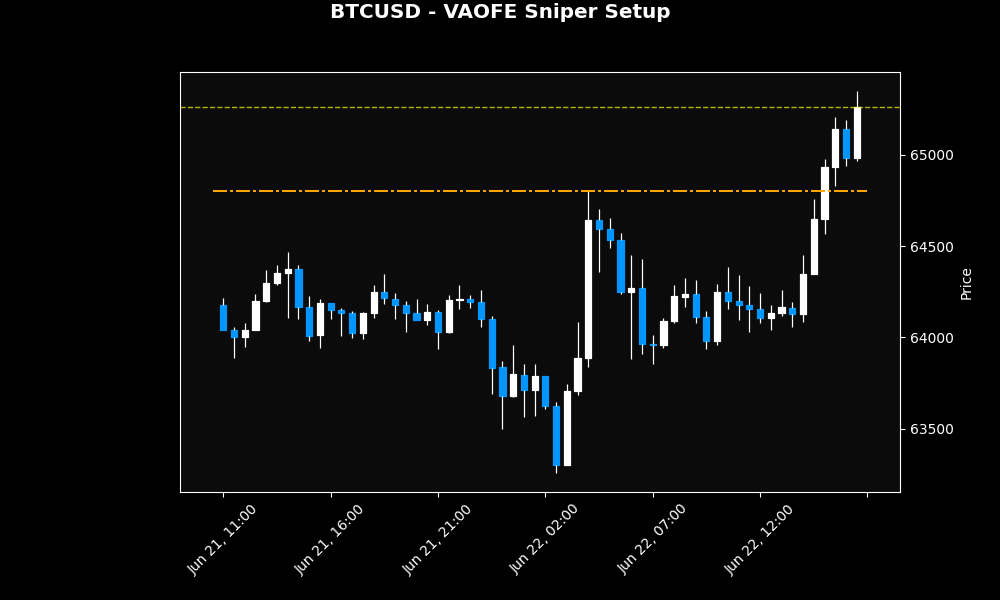
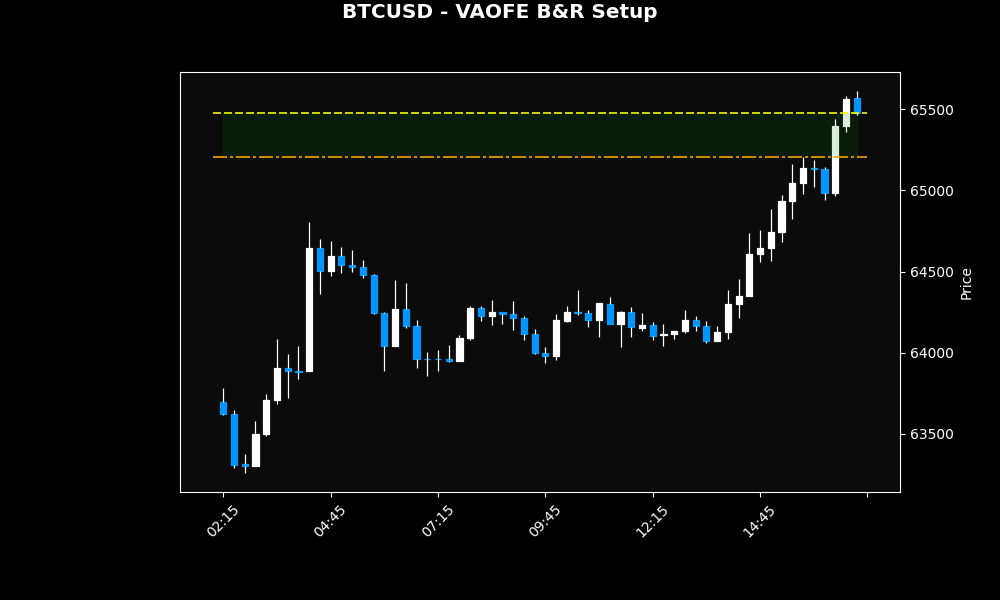
Laitettu B&R/kimmokeihin muutoksia, Graafimoottorin päivitys

diff --git a/compute/chart_maker.py b/compute/chart_maker.py
@@ -1,15 +1,15 @@
 import matplotlib.pyplot as plt
 import mplfinance as mpf
 import pandas as pd
-import numpy as np
 import os
 
-def generate_setup_chart(symbol, rates, target_level, pivot_price, direction, output_path="setup_snapshot.png"):
+def generate_setup_chart(symbol, rates, target_level, pivot_price, direction, output_path="setup_snapshot.png", tp1=None, tp2=None):
     """
     Piirtää graafin ja tallentaa sen kuvana.
     rates: list of dicts (MT5 rates)
-    target_level: BOS-taso (oranssi)
-    pivot_price: Pivot-kimmokkeen hinta (keltainen/punainen merkintä)
+    target_level: BOS-taso (oranssi, SL)
+    pivot_price: Entry-hinta (keltainen)
+    tp1, tp2: 1:1 ja 1:2 Targetit
     """
     # 1. Muutetaan data DataFrameksi
     df = pd.DataFrame(rates)
@@ -19,17 +19,31 @@ def generate_setup_chart(symbol, rates, target_level, pivot_price, direction, ou
     # 2. Määritetään visuaalinen tyyli
     style = mpf.make_mpf_style(base_mpf_style='nightclouds', gridstyle='', y_on_right=True)
     
-    # 3. Luodaan tasot piirrettäväksi
-    hlines = dict(hlines=[target_level], colors=['orange'], linestyle='-.', linewidths=1.5)
+    # 3. Luodaan perusviivat (SL ja Entry)
+    hlines_vals = [target_level, pivot_price]
+    hlines_colors = ['orange', 'yellow']
+    hlines_styles = ['-.', '--']
     
-    # 4. Piirretään graafi
+    # Jos Targetit (TP1, TP2) on annettu (Vaihe 2), piirretään ne vihreinä
+    if tp1 is not None and tp2 is not None:
+        hlines_vals.extend([tp1, tp2])
+        hlines_colors.extend(['#22c55e', '#16a34a']) # Vaaleanvihreä (1:1) ja Tummanvihreä (1:2)
+        hlines_styles.extend(['--', '-.'])
+        
+    hlines = dict(hlines=hlines_vals, colors=hlines_colors, linestyle=hlines_styles, linewidths=1.5, alpha=0.8)
+    
+    # 4. Varjostetaan B&R Riskilaatikko (SL:n ja Entryn väli)
+    # Käytetään vihreää jos ollaan ostamassa (Bull) ja punaista jos myymässä (Bear)
+    fill_color = 'green' if direction == 'BULL' else 'red'
+    fill_y1 = [target_level] * len(df)
+    fill_y2 = [pivot_price] * len(df)
+    
+    # 5. Piirretään graafi varjostuksella ja viivoilla
     fig, axlist = mpf.plot(df, type='candle', style=style, 
-                           title=f"{symbol} - VAOFE Sniper Setup",
+                           title=f"{symbol} - VAOFE B&R Setup",
                            hlines=hlines,
+                           fill_between=dict(y1=fill_y1, y2=fill_y2, color=fill_color, alpha=0.15),
                            returnfig=True, figsize=(10, 6))
-    
-    # Lisätään Pivot-merkintä (Entry-taso)
-    axlist[0].axhline(y=pivot_price, color='yellow', linestyle='--', linewidth=1, alpha=0.7)
     
     # Tallenna
     fig.savefig(output_path, dpi=100)
